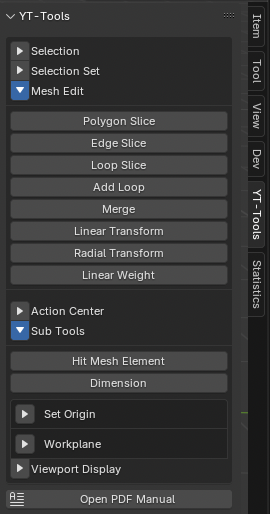
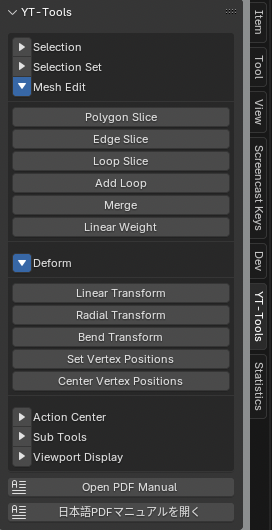
Update for v1.1

diff --git a/yt-tools/index.md b/yt-tools/index.md
@@ -109,43 +109,6 @@ Polygon Slice is an operator developed to achieve behavior similar to Modo's pol
 <img src="images/PolygonSlice.gif"/>
 </div>
 
-### <ins>Linear Transform</ins><br>
-Linear Transform is a transform operator with a linear falloff. The degree of transformation falls off along the line segment displayed as a diamond. Move Offset, Scale, and Angle specify the relative amount of movement, scale, and rotation to transform, respectively. The center of rotation and scale refers to the currently set Transform Pivot Point. Transform Orientation supports only Normal. The rest conform to the Global direction. Hold down LMB and select Hauling or Tracking in the 3D view.<br>
-<b>Shape</b> specifies how the falloff is calculated. The default is Linear, which means the falloff is linear.<br>
-Enabling <b>Reverse</b> causes the falloff to fall from Linear End to Linear Start.<br>
-<b>Mirror</b> mirrors the falloff shape at Start or End. The falloff affects both the original falloff shape and the mirror shape.<br>
-<b>Symmetry</b> transforms the selected elements symmetrically along the specified axis.<br>
-<b>Auto Fit</b> moves Start and End to fit the falloff shape to the selected mesh elements in the specified direction.<br>
-Enabling <b>Show Axis</b> displays axis handles at the Start and End positions of the falloff shape.<br>
-* G, R, S keys: Switch between moving, rotating, and scaling.<br>
-* LMB drag: Drag the mouse to change the value of the item set by Hauling with Hauling.<br>
-* LMB + Shift drag: Draw a new falloff shape.<br>
-* LMB + Control + Shift drag: Draw a new falloff shape horizontally or vertically.<br>
-* LMB + Alt drag: No changes are made until the mouse button is released. Useful for quickly aligning handle operations on heavy meshes.<br>
-* Return key: Confirms changes and resets changes.<br>
-* ESC key, Space key, RMB click: Exit the tool.<br>
-<div align="left">
-<img src="images/LinearTransform.gif"/>
-</div>
-
-### <ins>Radial Transform</ins><br>
-<b>Radial Transform</b> is a transform operator with a radial falloff. The degree of transformation is attenuated in a circular shape. Move Offset, Scale, and Angle specify the relative amount of movement, scale, and rotation to transform, respectively. The center of rotation and scale refers to the currently set Transform Pivot Point. Transform Orientation only supports Normal. The rest follow the Global direction. You can interactively change the transformation value by manipulating the Hauling or Transform Handle in the 3D view while holding down the LMB. The items used for the Hauling operation can be specified in the Hauling menu. They are also assigned to the shortcut keys T, R, and S, so they can also be changed using keyboard shortcuts. Radial Center and Radial Side are the center point of the radial falloff and the radius of the sphere. The closer to the center point, the smaller the falloff weight, and the farther away from the center, the larger the movement. The weight on the outside of the sphere is zero. These positions are set to fit the bounding box of the currently selected mesh element when the operator is started. You can redraw this sphere by dragging in the 3D view while holding down the Shift key. You can also constrain the drag direction to horizontal or vertical by holding down the Ctrl key and dragging the LMB.<br>
-<b>Shape</b> specifies how the falloff attenuation is calculated. The default is Linear, which performs linear falloff.<br>
-<b>Symmetry</b> transforms the selected elements symmetrically along the specified axis of symmetry.<br>
-* G, R, S keys: Switch between moving, rotating, and scaling<br>
-* LMB drag: Change the value of the item set by Hauling by dragging the mouse.<br>
-* LMB + Shift drag: Redraw a new falloff shape.<br>
-* LMB + drag side handle: Resize the falloff size on each axis.<br>
-* LMB + Shift + drag side handle: Resize the falloff size equally on all axes.<br>
-* LMB + drag center handle: Move the entire falloff shape.。<br>
-* LMB + Control + drag side handle: Move the entire falloff shape.<br>
-* LMB + Alt drag: No changes are made until you release the mouse button. Useful for quickly aligning handle operations on heavy meshes.<br>
-* Return key: Confirms changes and resets modified values.<br>
-* ESC key, Space key, RMB click: Exits the tool.<br>
-<div align="left">
-<img src="images/RadialTransform.gif"/>
-</div>
-
 ### <ins>Edge Slice</ins><br>
 Edge Slice is an interactive slicing tool with operability similar to Modo's Edge Slice, and allows you to slice a face continuously between the edges you clicked. This tool supports symmetry, and you can slice symmetrically positioned faces at the same time by selecting a symmetry axis from the Symmetry option that appears when you press the Edge Slice button to start the tool. In addition, if an edge is selected across faces or you click on a face, a handle is added in the currently operated view direction. Each handle can be moved after it is added. The following operations are available.<br>
 * LMB click: Click on an edge or face with the LMB to add a new handle. You can move the added handle by moving it while holding down the LMB.<br>
@@ -192,6 +155,75 @@ Enabling <b>Reverse</b> causes attenuation from Linear End to Linear Start.<br>
 * LMB + Alt drag: No changes are applied until the mouse button is released. Useful for quickly aligning handle operations on heavy meshes.<br>
 * Return key: Confirms changes and resets changes.<br>
 * ESC key, Space key, RMB click: Exit the tool.<br>
+
+## Transform
+
+### <ins>Linear Transform</ins><br>
+Linear Transform is a transform operator with a linear falloff. The degree of transformation falls off along the line segment displayed as a diamond. Move Offset, Scale, and Angle specify the relative amount of movement, scale, and rotation to transform, respectively. The center of rotation and scale refers to the currently set Transform Pivot Point. Transform Orientation supports only Normal. The rest conform to the Global direction. Hold down LMB and select Hauling or Tracking in the 3D view.<br>
+<b>Shape</b> specifies how the falloff is calculated. The default is Linear, which means the falloff is linear.<br>
+Enabling <b>Reverse</b> causes the falloff to fall from Linear End to Linear Start.<br>
+<b>Mirror</b> mirrors the falloff shape at Start or End. The falloff affects both the original falloff shape and the mirror shape.<br>
+<b>Symmetry</b> transforms the selected elements symmetrically along the specified axis.<br>
+<b>Auto Fit</b> moves Start and End to fit the falloff shape to the selected mesh elements in the specified direction. Orient: specifies the direction to fit the linear handles, XYZ move the handles along each major axis, and Oriented Bounding Box calculates a directional bounding box to fit the handles along that axis.<br>
+Enabling <b>Show Axis</b> displays axis handles at the Start and End positions of the falloff shape.<br>
+* G, R, S keys: Switch between moving, rotating, and scaling.<br>
+* LMB drag: Drag the mouse to change the value of the item set by Hauling with Hauling.<br>
+* LMB + Shift drag: Draw a new falloff shape.<br>
+* LMB + Control + Shift drag: Draw a new falloff shape horizontally or vertically.<br>
+* LMB + Alt drag: No changes are made until the mouse button is released. Useful for quickly aligning handle operations on heavy meshes.<br>
+* Return key: Confirms changes and resets changes.<br>
+* ESC key, Space key, RMB click: Exit the tool.<br>
+<div align="left">
+<img src="images/LinearTransform.gif"/>
+</div>
+
+### <ins>Radial Transform</ins><br>
+<b>Radial Transform</b> is a transform operator with a radial falloff. The degree of transformation is attenuated in a circular shape. Move Offset, Scale, and Angle specify the relative amount of movement, scale, and rotation to transform, respectively. The center of rotation and scale refers to the currently set Transform Pivot Point. Transform Orientation only supports Normal. The rest follow the Global direction. You can interactively change the transformation value by manipulating the Hauling or Transform Handle in the 3D view while holding down the LMB. The items used for the Hauling operation can be specified in the Hauling menu. They are also assigned to the shortcut keys T, R, and S, so they can also be changed using keyboard shortcuts. Radial Center and Radial Side are the center point of the radial falloff and the radius of the sphere. The closer to the center point, the smaller the falloff weight, and the farther away from the center, the larger the movement. The weight on the outside of the sphere is zero. These positions are set to fit the bounding box of the currently selected mesh element when the operator is started. You can redraw this sphere by dragging in the 3D view while holding down the Shift key. You can also constrain the drag direction to horizontal or vertical by holding down the Ctrl key and dragging the LMB.<br>
+<b>Shape</b> specifies how the falloff attenuation is calculated. The default is Linear, which performs linear falloff.<br>
+<b>Symmetry</b> transforms the selected elements symmetrically along the specified axis of symmetry.<br>
+<b>Invert</b> inverts falloff weight (w = 1.0 - w).<br>
+* G, R, S keys: Switch between moving, rotating, and scaling<br>
+* LMB drag: Change the value of the item set by Hauling by dragging the mouse.<br>
+* LMB + Shift drag: Redraw a new falloff shape.<br>
+* LMB + drag side handle: Resize the falloff size on each axis.<br>
+* LMB + Shift + drag side handle: Resize the falloff size equally on all axes.<br>
+* LMB + drag center handle: Move the entire falloff shape.。<br>
+* LMB + Control + drag side handle: Move the entire falloff shape.<br>
+* LMB + Alt drag: No changes are made until you release the mouse button. Useful for quickly aligning handle operations on heavy meshes.<br>
+* Return key: Confirms changes and resets modified values.<br>
+* ESC key, Space key, RMB click: Exits the tool.<br>
+<div align="left">
+<img src="images/RadialTransform.gif"/>
+</div>
+
+### <ins>Bend Transform</ins><br>
+<b>Bend Transform</b> is a transformation tool similar to Modo's Bend tool. It bends the coordinate values of selected vertices around the spine handle of the bend. <b>Center</b> is the center position of the bend, from which the bend will occur. <b>Spine</b> is the vector along which the bend will occur. <b>Axis</b> defines the plane along which the bend will occur. You can set it to a major X/Y/Z axis or the current view direction. If you want to specify the direction of the selected element's normal vector, you can use WorkPlane feature. <b>Angle</b> specifies the amount of bend in degrees. This value can be changed by manipulating the white circular handle. <br>
+<b>Both Sides</b> also transforms the coordinates of vertices located in the opposite direction to the spine vector. <br>
+<b>Symmetry</b> transforms selected elements symmetrically around the specified axis of symmetry. <br>
+* LMB + Shift drag: Redraws a new falloff shape. <br>
+* LMB + Spine Handle Drag: Changes the end position of the spine. <br>
+* LMB + Center Handle Drag: Changes the start position of the spine. <br>
+* LMB + Shift + Spine Handle Drag: Resizes the length of the spine vector. <br>
+* LMB + Rotation Handle Drag: Changes the bend angle. <br>
+* LMB + Control + Handle Drag: Constrains movement horizontally or vertically on the screen. <br>
+* LMB + Alt Drag: Does not apply changes until you release the mouse button. This is useful for quickly aligning handle operations on heavy meshes. <br>
+* Return Key: Confirms changes and resets the modified values.
+* ESC Key, Space Bar Key or Right-click: Drop the tool. <br>
+<div align="left">
+<img src="images/BendTool.gif"/>
+</div>
+
+<b>Reverse</b> reverses the direction of the spine vector. <br>
+<b>Auto Fit</b> moves the spine handle to fit the selected mesh element in the specified direction. <b>Orient:</b> specifies the direction in which the spine handle fits. X, Y, and Z move the handle along each of the major axes. <b>Oriented Bounding Box</b> calculates an oriented bounding box and fits the handle along that axis. Enabling <b>Spine Only</b> does not move the spine's center position, but only changes the length of the spine vector to fit the calculated bounding box. <br>
+
+### <ins>Set Vertex Positions</ins><br>
+<b>Set Vertex Positions</b> sets the coordinate values of the selected vertices to the specified values. <b>Axis</b> specifies the component of the coordinate value to be set; only the coordinate components of the enabled axes are updated. <b>Position</b> specifies the coordinate value to be set; the coordinate value of the active vertex is set as the default. If there is no active vertex, the center value of the selected vertex coordinates is set. <b>Space</b> specifies whether the coordinate values are set in local mesh coordinates or global object coordinates. <b>Mode</b> specifies whether the specified Position value replaces the existing vertex value (SET) or is added (ADD). <br>
+<div align="left">
+<img src="images/SetPositions.gif"/>
+</div>
+
+### <ins>Center Vertex Positions</ins><br>
+<b>Center Vertex Positions</b> sets the coordinate values of the selected vertices to the center value of the bounding box containing the selected vertices. <b>Axis</b> is the component of the coordinate value to set; only the components of the coordinate value for the enabled axis will be updated. <b>Space</b> specifies whether the coordinate value is set in the mesh's local coordinate value or the object's global coordinate value.<br>
 
 ## Viewport Display
 Viewport Display is a function that changes the viewport display attributes of selected and unselected mesh objects all at once. In Blender, mesh objects have Viewport Display as a property that can be set for each individual object, but this sets this attribute all at once. Active Meshes sets the display attributes for selected mesh objects, and Inactive Meshes sets the display attributes for unselected mesh objects. Enabling Set Only Active Meshes and pressing the Set Attributes button will make no changes to unselected mesh objects and will only change the display attributes of selected mesh objects.
@@ -246,8 +278,8 @@ Pivot moves the 3D Cursor position to the active object's position and sets the 
 ### Pivot Center Parent Axis<br>
 Pivot moves the 3D Cursor position to the position of the active object and sets the Pivot Point to Cursor. Set Orientation to Parent.
 
-## Hit Mesh Element
-Hit Mesh Element sets the position of the hit element on the mesh by clicking the mouse on the Mesh object to Active Element, 3D Cursor, or Object Origin. Once Hit Mesh Elements is executed, mouse clicks are processed as hit test events until the tool is released. If you want to continue operations such as transform tools, you must release Hit Mesh Elements once. You can release the tool by pressing the ESCAPE key, right-clicking the mouse, or pressing the Hit Mesh Elements button.
+## Pick Mesh Element
+Pick Mesh Element sets the position of the hit element on the mesh by clicking the mouse on the Mesh object to Active Element, 3D Cursor, or Object Origin. Once Pick Mesh Elements is executed, mouse clicks are processed as hit test events until the tool is released. If you want to continue operations such as transform tools, you must release Pick Mesh Elements once. You can release the tool by pressing the ESCAPE key, right-clicking the mouse, or pressing the Pick Mesh Elements button.
 <div align="left">
 <img src="images/HitMeshElement.gif"/>
 </div>
@@ -344,6 +376,8 @@ Select Rotate Mode (mesh.yt_select_rotate_mode)<br>
 ## Preferences
 #### <ins>Font Size</ins><br>
 Specifies the font size of the text displayed in Display Info.
+#### <ins>Text Position X/Y Offset</ins><br>
+Offset the screen position of the text displayed in Display Info.
 #### <ins>Handle Point Size</ins><br>
 Specifies the size of the point handle displayed in Polygon Slice, etc. in pixels.
 #### <ins>Non Planar Threshold</ins><br>
@@ -368,6 +402,7 @@ Reverses the order of Edit Mode switching by the space key.
 | Select Boundary | mesh.yt_select_boundary |
 | Select Loop | mesh.yt_select_loop |
 | Select Loop Direct | mesh.yt_select_loop_direct |
+| Cycle Selection Mode | mesh.yt_cycle_select_mode |
 
 ### Selection Set
 
@@ -400,7 +435,7 @@ Reverses the order of Edit Mode switching by the space key.
 
 | Name | Operator |
 |---------|------------------|
-| Hit Mesh Element | view3d.yt_hit_mesh_element |
+| Pick Mesh Element | view3d.yt_hit_mesh_element |
 | 3D Cursor | view3d.yt_origin_to_cursor |
 | Selection Center | view3d.yt_origin_to_selection |
 | Selection Border Center | view3d.yt_origin_to_selection_border |
@@ -415,12 +450,20 @@ Reverses the order of Edit Mode switching by the space key.
 |---------|------------------|
 | Loop Slice | mesh.yt_loopslice |
 | Polygon Slice | mesh.yt_polyslice |
-| Linear Transform | mesh.yt_transform_linear |
-| Radial Transform | mesh.yt_transform_radial |
 | Edge Slice | mesh.yt_edgeslice |
 | Merge | mesh.yt_merge_verts |
 | Linear Weight | mesh.yt_weight_linear |
 | Add Loop | mesh.yt_addloop |
+
+
+### Deform
+| Name | Operator |
+|---------|------------------|
+| Linear Transform | mesh.yt_transform_linear |
+| Radial Transform | mesh.yt_transform_radial |
+| Bend Transform | mesh.yt_transform_bend |
+| Set Vertex Positions | mesh.yt_vert_position_set |
+| Center Vertex Positions | mesh.yt_vert_position_center |
 
 
 ### Viewport Display
@@ -430,4 +473,7 @@ Reverses the order of Edit Mode switching by the space key.
 | Set Attributes | mesh.yt_viewport_display |
 | Display Info | mesh.yt_viewport_text |
 | Dimension | mesh.yt_dimension |
+<<<<<<< Updated upstream
 
+=======
+>>>>>>> Stashed changes

diff --git a/yt-tools/release_1_1.md b/yt-tools/release_1_1.md
@@ -1,0 +1,38 @@
+---
+# Feel free to add content and custom Front Matter to this file.
+# To modify the layout, see https://jekyllrb.com/docs/themes/#overriding-theme-defaults
+
+layout: default
+---
+# YT-Tools for Blender v1.1 Release Note
+
+## ✨ New Features Overview
+
+### 🔹 Bend Tool
+<b>Bend Transform</b> is a transformation tool similar to Modo's Bend tool. It bends the coordinate values of selected vertices around the spine handle of the bend. <b>Center</b> is the center position of the bend, from which the bend will occur. <b>Spine</b> is the vector along which the bend will occur. <b>Axis</b> defines the plane along which the bend will occur. You can set it to a major X/Y/Z axis or the current view direction. If you want to specify the direction of the selected element's normal vector, you can use WorkPlane feature. 
+<div align="left">
+<img src="images/BendTool.gif"/>
+</div>
+
+<div align="left">
+<img src="images/BendTool_BothSides.gif"/>
+</div>
+<b>Both Sides</b> also transforms the coordinates of vertices located in the opposite direction to the spine vector. <br>
+
+
+### <ins>Set Vertex Positions</ins><br>
+<b>Set Vertex Positions</b> sets the coordinate values of the selected vertices to the specified values. <b>Axis</b> specifies the component of the coordinate value to be set; only the coordinate components of the enabled axes are updated. <b>Position</b> specifies the coordinate value to be set; the coordinate value of the active vertex is set as the default. If there is no active vertex, the center value of the selected vertex coordinates is set. <b>Space</b> specifies whether the coordinate values are set in local mesh coordinates or global object coordinates. <b>Mode</b> specifies whether the specified Position value replaces the existing vertex value (SET) or is added (ADD). <br>
+<div align="left">
+<img src="images/SetPositions.gif"/>
+</div>
+
+
+### <ins>Center Vertex Positions</ins><br>
+<b>Center Vertex Positions</b> sets the coordinate values of the selected vertices to the center value of the bounding box containing the selected vertices. <b>Axis</b> is the component of the coordinate value to set; only the components of the coordinate value for the enabled axis will be updated. <b>Space</b> specifies whether the coordinate value is set in the mesh's local coordinate value or the object's global coordinate value.<br>
+<div align="left">
+<img src="images/CenterPositions.gif"/>
+</div>
+
+
+### <ins>Radial Transform Invert option</ins><br>
+<b>Invert</b> inverts falloff weight (w = 1.0 - w).<br>

diff --git a/index.md b/index.md
@@ -15,6 +15,8 @@ Hello I'm Taz, a software engineer specializing in modeling tools for 3D compute
 - <a href="https://tazaki.gumroad.com/l/gamki">Gumroad online store</a>
 - <a href="https://tazee.booth.pm/">BOOTHオンラインストア</a>
 - <a href="https://forms.gle/3XkJnZyQFghUkScw8">Feedback Form</a>
+- Release Note :<br>
+    <a href="/yt-tools/release_v1_1.html">v1.1</a>
 
 <b>Modo Open Source Plug-ins : </b><br>
 - <a href="{{ site.githuburl }}/">https://github.com/tazee</a>
